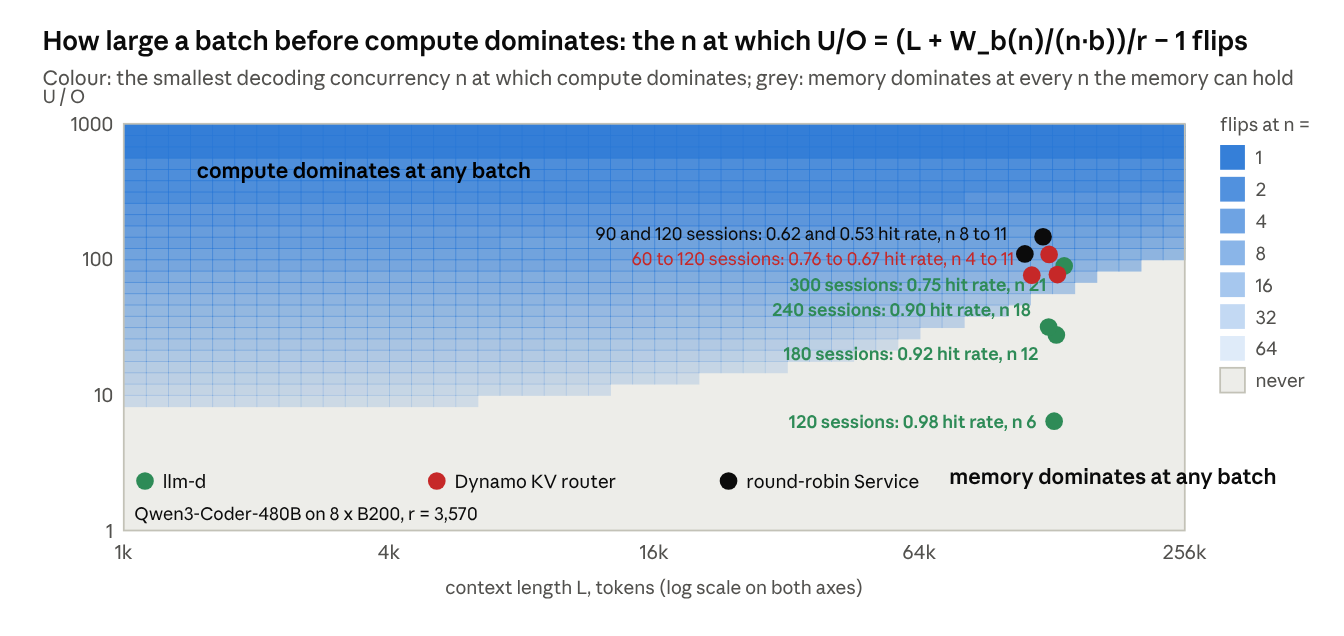
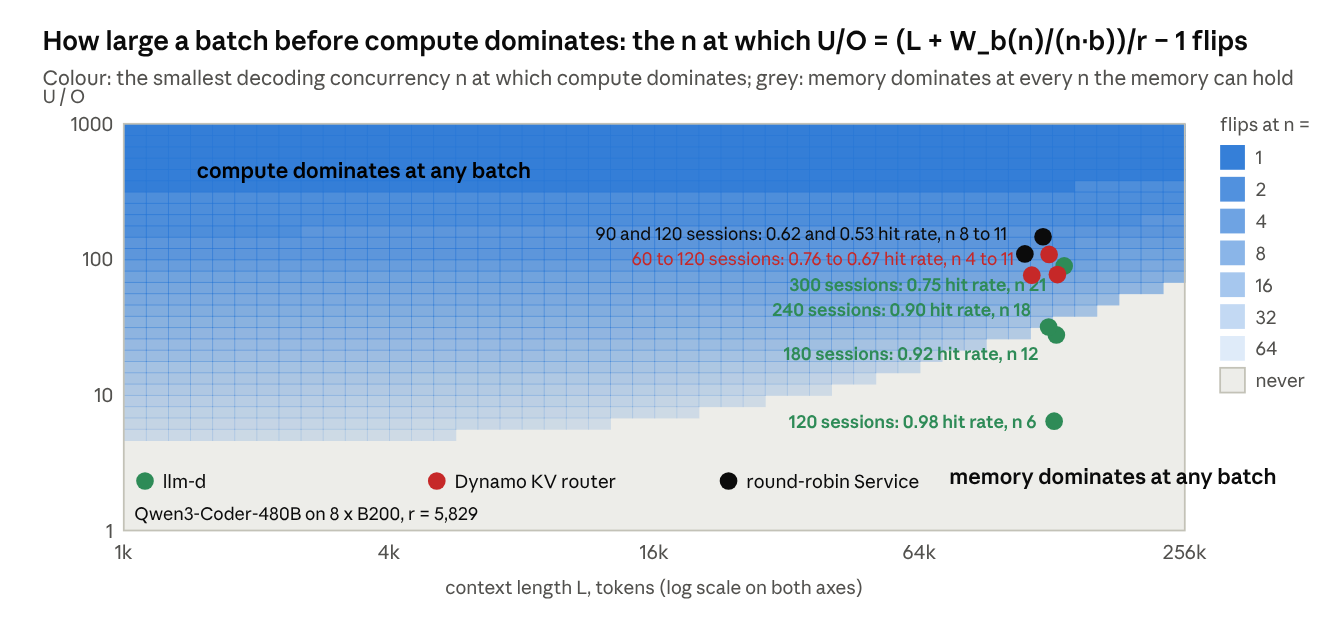
docs(blog): ridge at the workload's context (r 5,800, threshold 30); wall map redrawn; rule check 8 of 9

Changed region(s): [[0.0938, 0.239, 0.9062, 0.717], [0.0938, 0.3585, 0.2188, 0.3884]]

diff --git a/docs/blog/kv-cache-serving-efficiency/post.html b/docs/blog/kv-cache-serving-efficiency/post.html
@@ -24,11 +24,11 @@
 <h3 id="21-which-side-of-the-ridge-a-workload-falls-on">2.1 Which side of the ridge a workload falls on</h3>
 <p>Each output token costs the engine two things: one read of its whole context, L tokens of KV, and the compute for its share of the uncached prompt, U/O prefill tokens. The <strong>ridge</strong> r is the exchange rate between them, the number of KV tokens the device reads in the time it prefills one token, from the two calibrated rates:</p>
 <pre><code class="language-latex">r = \frac{\text{HBM bandwidth} / \text{KV bytes per token}}{\text{prefill tokens per second}}</code></pre>
-<p>r depends on the hardware and the model only; for Qwen3-Coder-480B on 8 × B200 it is about 3,600. Compute dominates a step when the compute per output token exceeds the memory read per output token, both counted in prefill-token time, with one correction: the weights a step streams count as extra context shared by the n sequences in it, W_b(n)/(n·b) tokens where b is the KV bytes per token. The rule is</p>
+<p>r depends on the hardware and the model only; for Qwen3-Coder-480B on 8 × B200, at this workload&#39;s 117k context, it is about 5,800. Compute dominates a step when the compute per output token exceeds the memory read per output token, both counted in prefill-token time, with one correction: the weights a step streams count as extra context shared by the n sequences in it, W_b(n)/(n·b) tokens where b is the KV bytes per token. The rule is</p>
 <pre><code class="language-latex">\underbrace{1 + \frac{U}{O}}_{\substack{\text{compute per output token:}\\ \text{the decode token plus its share of uncached prefill}}} \;&gt;\; \underbrace{\frac{L + W_b(n)/(n\,b)}{r}}_{\substack{\text{memory per output token:}\\ \text{context plus shared weights, in prefill-token time}}}</code></pre>
-<p>For the agentic workload (L = 117k, U = 7.5k, O = 386), U/O = 19 against a threshold of 50 at the ceiling&#39;s batch of 29, so the workload is memory-bound. A stack that lets the hit rate fall raises U/O past the threshold, and its steps are then dominated by recompute. Capacity is not in the rule; it caps n and enters the ceiling as a separate condition (Appendix B).</p>
-<p>The figure draws the rule for this deployment: for each context length and U/O, the smallest batch at which compute dominates, grey where memory dominates at every batch the HBM holds. llm-d&#39;s runs up to 240 sessions sit in the grey; Dynamo, round-robin and llm-d at 300 sessions sit in the n = 1 band, where recompute dominates at any batch.</p>
-<p style="text-align:center"><img src="figures/fig2-wall-map.png" width="620"></p><p style="text-align:center"><i>the smallest decoding concurrency n at which U/O &gt; (L + W_b(n)/(n·b))/r − 1 holds, for the B200 deployment of Appendix A (r = 3,600, W_b(n) from the expert-count formula of Appendix B, n capped by KV capacity and the engine&#39;s 64-sequence limit) · fleet runs from Section 6 placed by their measured hit rates (U = (1 − h)·I, h counting HBM and host-tier hits) · compute against bandwidth only; the capacity wall is a separate condition</i></p>
+<p>For the agentic workload (L = 117k, U = 7.5k, O = 386), U/O = 19 against a threshold of 30 at the ceiling&#39;s batch of 29, so the workload is memory-bound. A stack that lets the hit rate fall raises U/O past the threshold, and its steps are then dominated by recompute. Capacity is not in the rule; it caps n and enters the ceiling as a separate condition (Appendix B).</p>
+<p>The figure draws the rule for this deployment: for each context length and U/O, the smallest batch at which compute dominates, grey where memory dominates at every batch the HBM holds. llm-d&#39;s runs up to 240 sessions sit in the grey; Dynamo, round-robin and llm-d at 300 sessions sit in the blue, where recompute dominates once three to eight requests share a step, fewer than those runs actually had decoding.</p>
+<p style="text-align:center"><img src="figures/fig2-wall-map.png" width="620"></p><p style="text-align:center"><i>the smallest decoding concurrency n at which U/O &gt; (L + W_b(n)/(n·b))/r − 1 holds, for the B200 deployment of Appendix A (r = 5,800, the ridge at this workload&#39;s context; W_b(n) from the expert-count formula of Appendix B, n capped by KV capacity and the engine&#39;s 64-sequence limit) · fleet runs from Section 6 placed by their measured hit rates (U = (1 − h)·I, h counting HBM and host-tier hits) · compute against bandwidth only; the capacity wall is a separate condition</i></p>
 <h2 id="3-the-ceiling-and-η">3. The ceiling and η</h2>
 <p>An inference engine serves requests in steps. One step is one forward pass over everything scheduled in it: a chunk of prefill tokens from prompts still being processed, plus one new token for every request that is decoding. Each step incurs three hardware costs:</p>
 <ol><li><p><strong>Compute.</strong> Every token costs the model&#39;s active FLOPs plus attention over its request&#39;s context; a prefill chunk is almost all of it.</p></li><li><p><strong>Bandwidth.</strong> Every step streams the weights it touches and reads the KV of every decoding request, so its memory time grows with the number and length of resident contexts.</p></li><li><p><strong>Capacity.</strong> Every request whose KV is held, decoding or waiting for its next turn, occupies HBM; when HBM is full something is evicted and, unless a lower tier still holds it, must be recomputed when it returns.</p></li></ol>
@@ -70,7 +70,7 @@
 <h3 id="where-the-loss-is">Where the loss is</h3>
 <p>Three factors per run, as defined in Section 4. Z is the time from a turn&#39;s last token to the session&#39;s next request, and T the time from a request&#39;s start to its last token, both from the per-request records. Each run is scored against the ceiling at its own mean prompt length, so η here differs slightly from the headline table. T_ideal is taken at the oracle&#39;s hit rate over the steady window, 0.98, since h is measured over that window.</p>
 <table><thead><tr><th>Stack</th><th>Sessions</th><th>Hit rate</th><th>Z, idle per turn</th><th>T, service per turn</th><th>Client</th><th>Reuse</th><th>Engine</th><th>η</th></tr></thead><tbody><tr><td>llm-d</td><td>120</td><td>0.98</td><td>17.5 s</td><td>8.9 s</td><td>0.52</td><td>1.00</td><td>0.96</td><td>0.50</td></tr><tr><td>llm-d</td><td>180</td><td>0.92</td><td>16.4 s</td><td>22.4 s</td><td>0.69</td><td>1.00</td><td>0.68</td><td>0.47</td></tr><tr><td>llm-d</td><td>240</td><td>0.90</td><td>20.0 s</td><td>34.3 s</td><td>0.75</td><td>1.00</td><td>0.61</td><td>0.45</td></tr><tr><td>llm-d</td><td>300</td><td>0.75</td><td>26.8 s</td><td>95.0 s</td><td>0.79</td><td>0.69</td><td>0.49</td><td>0.26</td></tr><tr><td>Dynamo KV router</td><td>60</td><td>0.76</td><td>16.8 s</td><td>15.2 s</td><td>0.29</td><td>0.95</td><td>0.77</td><td>0.21</td></tr><tr><td>Dynamo KV router</td><td>90</td><td>0.74</td><td>16.0 s</td><td>21.1 s</td><td>0.35</td><td>0.92</td><td>0.70</td><td>0.23</td></tr><tr><td>Dynamo KV router</td><td>120</td><td>0.67</td><td>21.0 s</td><td>36.2 s</td><td>0.39</td><td>0.73</td><td>0.74</td><td>0.21</td></tr><tr><td>round-robin Service</td><td>90</td><td>0.62</td><td>19.8 s</td><td>34.0 s</td><td>0.29</td><td>0.81</td><td>0.64</td><td>0.15</td></tr><tr><td>round-robin Service</td><td>120</td><td>0.53</td><td>27.6 s</td><td>55.9 s</td><td>0.32</td><td>0.67</td><td>0.66</td><td>0.14</td></tr></tbody></table>
-<p>The split reads this way. The client factor is the load&#39;s own: at llm-d&#39;s peak the sessions and their idle time asked for 0.69 of the ceiling. Within that, llm-d lost nothing to reuse up to 240 sessions and 32 to 39% to the engine, the time requests spend waiting to be scheduled and, past 240, preempted; at 300 it also lost 31% to reuse. Dynamo and round-robin peak at lower loads, so their client factor is 0.29 to 0.39; past their peaks, added sessions turn into recompute (reuse 0.92 to 0.67) while the engine factor stays at 0.64 to 0.77. One idealisation of Section 3 shows in the table: the step-time law spreads prefill evenly across decode steps, so at a small batch recompute hides under the memory time and the reuse factor understates it, as for Dynamo at 60 sessions (hit rate 0.76, reuse 0.95); the engine factor carries it instead. At 120 sessions llm-d&#39;s 0.98 is the oracle&#39;s own hit rate over the window, so its reuse is 1.00. The rule of Section 2.1, applied to each run&#39;s measured hit rate, context and batch size, puts all nine runs on the same side of the measured ridge (about 290 FLOP/B, where the solid roofs of the Section 2 figure meet) as their arithmetic intensity. Both use the same per-token costs, so this shows the two are consistent; it is not an independent measurement.</p>
+<p>The split reads this way. The client factor is the load&#39;s own: at llm-d&#39;s peak the sessions and their idle time asked for 0.69 of the ceiling. Within that, llm-d lost nothing to reuse up to 240 sessions and 32 to 39% to the engine, the time requests spend waiting to be scheduled and, past 240, preempted; at 300 it also lost 31% to reuse. Dynamo and round-robin peak at lower loads, so their client factor is 0.29 to 0.39; past their peaks, added sessions turn into recompute (reuse 0.92 to 0.67) while the engine factor stays at 0.64 to 0.77. One idealisation of Section 3 shows in the table: the step-time law spreads prefill evenly across decode steps, so at a small batch recompute hides under the memory time and the reuse factor understates it, as for Dynamo at 60 sessions (hit rate 0.76, reuse 0.95); the engine factor carries it instead. At 120 sessions llm-d&#39;s 0.98 is the oracle&#39;s own hit rate over the window, so its reuse is 1.00. The rule of Section 2.1, applied to each run&#39;s measured hit rate, context and batch size, puts eight of the nine runs on the same side of the measured ridge (about 290 FLOP/B, where the solid roofs of the Section 2 figure meet) as their arithmetic intensity; the ninth, Dynamo at 90 sessions, sits at 283 FLOP/B, within 3% of the ridge. Both use the same per-token costs, so this shows the two are consistent; it is not an independent measurement.</p>
 <h3 id="run-notes">Run notes</h3>
 <p>Per-replica throughput stayed within about 10% of each level&#39;s mean, except round-robin at 120 sessions, where two replicas held 17 running requests each against 6 to 10 on the others, and 0 to 6 requests per level were lost to disconnects. Output lengths come from each request&#39;s max_tokens, because the harness&#39;s own output count is wrong on about one turn in 200.</p>
 <h2 id="7-doing-this-for-your-own-workload">7. Doing this for your own workload</h2>
@@ -103,7 +103,7 @@
 <h3 id="b2-the-ridge">B.2 The ridge</h3>
 <p>Per active request, with U uncached prompt tokens, resident context L and output O (Section 3), each iteration costs compute for its amortised uncached prefill and its decode token, and a read of its resident context:</p>
 <pre><code class="language-latex">c = \frac{1 + U/O}{R_{pf}}, \qquad m = \frac{L}{BW}, \qquad R_{pf} = \frac{F}{2N}, \quad BW = \frac{W}{b}</code></pre>
-<p>These are the terms that grow with load. The weight stream W_b/W is paid once per iteration whatever the load, so at low load every decode step is dominated by it and per-token cost looks memory-bound, the familiar small-batch result. Compute-bound and memory-bound are used here for the ceiling, where the per-sequence terms have grown to their limit, and that classification does not depend on load. Compute binds there when c exceeds m: when the KV tokens scanned per processed token, L/(1 + U/O), is below the hardware&#39;s ridge r = BW/R_pf. The weight stream is kept by charging it per sequence: a step shared by n sequences reads W_b(n) once, which is W_b/(n·b) tokens of KV each, so the comparison is made with L_eff = L + W_b(n)/(n·b) in place of L, and Section 2.1 draws it for several n. For a mixture of experts, W_b(n) counts the experts touched by every token in the step, prefill tokens included, so it is evaluated at n(1 + U/O) tokens. The prefill rate falls with context, so r grows with L: at a 128k context the B200 ridge is about 5,800 rather than 3,600, which lowers the agentic threshold of Section 2.1 from 50 to about 30 and changes no conclusion. The hit rate appears nowhere but inside U. Solving the equality for O gives the boundary output length as a function of context and uncached prefill,</p>
+<p>These are the terms that grow with load. The weight stream W_b/W is paid once per iteration whatever the load, so at low load every decode step is dominated by it and per-token cost looks memory-bound, the familiar small-batch result. Compute-bound and memory-bound are used here for the ceiling, where the per-sequence terms have grown to their limit, and that classification does not depend on load. Compute binds there when c exceeds m: when the KV tokens scanned per processed token, L/(1 + U/O), is below the hardware&#39;s ridge r = BW/R_pf. The weight stream is kept by charging it per sequence: a step shared by n sequences reads W_b(n) once, which is W_b/(n·b) tokens of KV each, so the comparison is made with L_eff = L + W_b(n)/(n·b) in place of L, and Section 2.1 draws it for several n. For a mixture of experts, W_b(n) counts the experts touched by every token in the step, prefill tokens included, so it is evaluated at n(1 + U/O) tokens. The prefill rate falls with context, so r grows with L. The 5,800 used in Section 2.1 is the ridge at this workload&#39;s 117k context; at the 8k calibration context, where the prefill rate is 37,217 tokens per second, it would be about 3,600, which raises the agentic threshold from 30 to about 50 and changes no conclusion. The hit rate appears nowhere but inside U. Solving the equality for O gives the boundary output length as a function of context and uncached prefill,</p>
 <pre><code class="language-latex">O^{*}(L, U) = \frac{r\, U}{L - r} \quad (L &gt; r), \qquad r = \frac{BW}{R_{pf}}</code></pre>
-<p>Contexts shorter than the ridge r are compute-bound at any output length. Longer than r, memory binds once the output exceeds rU/(L − r). Rearranged, compute binds when U/O &gt; L/r − 1: the uncached input per output token must exceed the context in ridges, less one. With nothing cached (U = L = I) this is 1/I + 1/O &gt; 1/r, which for a long input reduces to O &lt; r: on the B200 deployment memory binds above about 3,600 output tokens. With everything cached (U = 0) the boundary is zero: a reused context longer than r is memory-bound whatever its output length, which is where the agentic workload of Section 6 sits. The ridge is the hardware&#39;s bytes per FLOP times the model&#39;s FLOPs per token over its KV bytes per token, so latent-attention models, with fewer KV bytes per token, land higher.</p>
+<p>Contexts shorter than the ridge r are compute-bound at any output length. Longer than r, memory binds once the output exceeds rU/(L − r). Rearranged, compute binds when U/O &gt; L/r − 1: the uncached input per output token must exceed the context in ridges, less one. With nothing cached (U = L = I) this is 1/I + 1/O &gt; 1/r, which for a long input reduces to O &lt; r: on the B200 deployment, for a prompt around 117k tokens, memory binds above about 5,800 output tokens. With everything cached (U = 0) the boundary is zero: a reused context longer than r is memory-bound whatever its output length, which is where the agentic workload of Section 6 sits. The ridge is the hardware&#39;s bytes per FLOP times the model&#39;s FLOPs per token over its KV bytes per token, so latent-attention models, with fewer KV bytes per token, land higher.</p>
 </body></html>

diff --git a/docs/blog/kv-cache-serving-efficiency/reproduce/analysis/ceiling_v2.py b/docs/blog/kv-cache-serving-efficiency/reproduce/analysis/ceiling_v2.py
@@ -1,10 +1,10 @@
 #!/usr/bin/env python3
 """Ceiling with the all-tokens expert convention: W_b evaluated at the tokens in a step, n decode + n*U/O prefill (prefill spread evenly).
 Outputs R, per-run own-I ceilings, the split table, the ideal throughput-vs-n curve, the two capacity walls, the 2.1 thresholds and the rule check."""
-import sys,io,contextlib,json; sys.argv=[sys.argv[0]]; sys.path.insert(0, os.path.dirname(os.path.abspath(__file__)))
+import sys,io,contextlib,json; sys.argv=[sys.argv[0]]; sys.path.insert(0,'/usr/local/google/home/kaushikmitra/kv-whitepaper')
 with contextlib.redirect_stdout(io.StringIO()):
     import ceilings as c, retention as rt
-b=253952; W=0.527*8*8.0e12; Ctok=3403712; TB=8192; FLOOR=0.0058; R8k=37217; p=-0.177; r_ridge=3570
+b=253952; W=0.527*8*8.0e12; Ctok=3403712; TB=8192; FLOOR=0.0058; R8k=37217; p=-0.177; r_ridge=5829
 rt.b=b; rt.P['b']=b; rt.P['W']=W; rt.W=W
 def step(I,O,h,n):
     U=(1-h)*I; L=I+O/2; Ftok=R8k*(I/8192)**p; pre=n*U/O
@@ -23,7 +23,7 @@ H={'llm-d 120':(604,.98),'llm-d 180':(622,.92),'llm-d 240':(570,.90),'llm-d 300'
 print('eta (fleet ceiling):',{k:round(v[0]*1e3/F,2) for k,v in H.items()})
 print('--- split (T_ideal at 0.98, own-I ceilings):')
 pts=[]
-for r in json.load(open(RESULTS+'/round2_inputs.json')):
+for r in json.load(open('retention/round2_inputs.json')):
     nm=r['name']; I_,O_,hh,nr,S=r['I'],r['O'],H[nm][1],r['n_run'],r['conc']; rho_=1-(I_+19*1500)/(20*I_)
     Z=r['Tp']+r['gap']; T=r['T_engine']; Tid=O_*step(I_,O_,0.98,nr); Th=O_*step(I_,O_,hh,nr)
     nn,tp,tt=ceiling(I_,O_,rho_); Rr=tp*6
@@ -44,7 +44,7 @@ def thr(nn,y):  # implicit in y; iterate
 print('  at n=29:',round(thr(29,19),1),' at n=12:',round(thr(12,19),1),' at n=5:',round(thr(5,19),1))
 AI={'llm-d 120':36,'llm-d 180':172,'llm-d 240':239,'llm-d 300':737,'Dynamo 60':200,'Dynamo 90':283,'Dynamo 120':600,'rr 90':303,'rr 120':549}
 agree=0
-for r in json.load(open(RESULTS+'/round2_inputs.json')):
+for r in json.load(open('retention/round2_inputs.json')):
     nm=r['name']; y=(1-H[nm][1])*r['I']/r['O']; nr=r['n_run']; th=(r['I']+c.wread(nr*(1+y))/(nr*b))/r_ridge-1
     a=(y>th)==(AI[nm]>290); agree+=a; print(f"  {nm:11s} U/O {y:6.1f} thr {th:5.1f} rule {'compute' if y>th else 'memory':7s} AI {AI[nm]} {'agree' if a else 'DISAGREE'}")
 print('agree',agree,'of 9')

diff --git a/docs/blog/kv-cache-serving-efficiency/README.md b/docs/blog/kv-cache-serving-efficiency/README.md
@@ -60,19 +60,19 @@ $$
 r = \frac{\text{HBM bandwidth} / \text{KV bytes per token}}{\text{prefill tokens per second}}
 $$
 
-r depends on the hardware and the model only; for Qwen3-Coder-480B on 8 × B200 it is about 3,600. Compute dominates a step when the compute per output token exceeds the memory read per output token, both counted in prefill-token time, with one correction: the weights a step streams count as extra context shared by the n sequences in it, W\_b(n)/(n·b) tokens where b is the KV bytes per token. The rule is
+r depends on the hardware and the model only; for Qwen3-Coder-480B on 8 × B200, at this workload's 117k context, it is about 5,800. Compute dominates a step when the compute per output token exceeds the memory read per output token, both counted in prefill-token time, with one correction: the weights a step streams count as extra context shared by the n sequences in it, W\_b(n)/(n·b) tokens where b is the KV bytes per token. The rule is
 
 $$
 \underbrace{1 + \frac{U}{O}}_{\substack{\text{compute per output token:}\\ \text{the decode token plus its share of uncached prefill}}} \;>\; \underbrace{\frac{L + W_b(n)/(n\,b)}{r}}_{\substack{\text{memory per output token:}\\ \text{context plus shared weights, in prefill-token time}}}
 $$
 
-For the agentic workload (L = 117k, U = 7.5k, O = 386), U/O = 19 against a threshold of 50 at the ceiling's batch of 29, so the workload is memory-bound. A stack that lets the hit rate fall raises U/O past the threshold, and its steps are then dominated by recompute. Capacity is not in the rule; it caps n and enters the ceiling as a separate condition (Appendix B).
+For the agentic workload (L = 117k, U = 7.5k, O = 386), U/O = 19 against a threshold of 30 at the ceiling's batch of 29, so the workload is memory-bound. A stack that lets the hit rate fall raises U/O past the threshold, and its steps are then dominated by recompute. Capacity is not in the rule; it caps n and enters the ceiling as a separate condition (Appendix B).
 
-The figure draws the rule for this deployment: for each context length and U/O, the smallest batch at which compute dominates, grey where memory dominates at every batch the HBM holds. llm-d's runs up to 240 sessions sit in the grey; Dynamo, round-robin and llm-d at 300 sessions sit in the n = 1 band, where recompute dominates at any batch.
+The figure draws the rule for this deployment: for each context length and U/O, the smallest batch at which compute dominates, grey where memory dominates at every batch the HBM holds. llm-d's runs up to 240 sessions sit in the grey; Dynamo, round-robin and llm-d at 300 sessions sit in the blue, where recompute dominates once three to eight requests share a step, fewer than those runs actually had decoding.
 
-![the smallest decoding concurrency n at which U/O > (L + W_b(n)/(n·b))/r − 1 holds, for the B200 deployment of Appendix A (r = 3,600, W_b(n) from the expert-count formula of Appendix B, n capped by KV capacity and the engine's 64-sequence limit) · fleet runs from Section 6 placed by their measured hit rates (U = (1 − h)·I, h counting HBM and host-tier hits) · compute against bandwidth only; the capacity wall is a separate condition](figures/fig2-wall-map.png)
+![the smallest decoding concurrency n at which U/O > (L + W_b(n)/(n·b))/r − 1 holds, for the B200 deployment of Appendix A (r = 5,800, the ridge at this workload's context; W_b(n) from the expert-count formula of Appendix B, n capped by KV capacity and the engine's 64-sequence limit) · fleet runs from Section 6 placed by their measured hit rates (U = (1 − h)·I, h counting HBM and host-tier hits) · compute against bandwidth only; the capacity wall is a separate condition](figures/fig2-wall-map.png)
 
-*the smallest decoding concurrency n at which U/O > (L + W_b(n)/(n·b))/r − 1 holds, for the B200 deployment of Appendix A (r = 3,600, W_b(n) from the expert-count formula of Appendix B, n capped by KV capacity and the engine's 64-sequence limit) · fleet runs from Section 6 placed by their measured hit rates (U = (1 − h)·I, h counting HBM and host-tier hits) · compute against bandwidth only; the capacity wall is a separate condition*
+*the smallest decoding concurrency n at which U/O > (L + W_b(n)/(n·b))/r − 1 holds, for the B200 deployment of Appendix A (r = 5,800, the ridge at this workload's context; W_b(n) from the expert-count formula of Appendix B, n capped by KV capacity and the engine's 64-sequence limit) · fleet runs from Section 6 placed by their measured hit rates (U = (1 − h)·I, h counting HBM and host-tier hits) · compute against bandwidth only; the capacity wall is a separate condition*
 
 ## 3. The ceiling and η
 
@@ -206,7 +206,7 @@ Three factors per run, as defined in Section 4. Z is the time from a turn's last
 | round-robin Service | 90 | 0.62 | 19.8 s | 34.0 s | 0.29 | 0.81 | 0.64 | 0.15 |
 | round-robin Service | 120 | 0.53 | 27.6 s | 55.9 s | 0.32 | 0.67 | 0.66 | 0.14 |
 
-The split reads this way. The client factor is the load's own: at llm-d's peak the sessions and their idle time asked for 0.69 of the ceiling. Within that, llm-d lost nothing to reuse up to 240 sessions and 32 to 39% to the engine, the time requests spend waiting to be scheduled and, past 240, preempted; at 300 it also lost 31% to reuse. Dynamo and round-robin peak at lower loads, so their client factor is 0.29 to 0.39; past their peaks, added sessions turn into recompute (reuse 0.92 to 0.67) while the engine factor stays at 0.64 to 0.77. One idealisation of Section 3 shows in the table: the step-time law spreads prefill evenly across decode steps, so at a small batch recompute hides under the memory time and the reuse factor understates it, as for Dynamo at 60 sessions (hit rate 0.76, reuse 0.95); the engine factor carries it instead. At 120 sessions llm-d's 0.98 is the oracle's own hit rate over the window, so its reuse is 1.00. The rule of Section 2.1, applied to each run's measured hit rate, context and batch size, puts all nine runs on the same side of the measured ridge (about 290 FLOP/B, where the solid roofs of the Section 2 figure meet) as their arithmetic intensity. Both use the same per-token costs, so this shows the two are consistent; it is not an independent measurement.
+The split reads this way. The client factor is the load's own: at llm-d's peak the sessions and their idle time asked for 0.69 of the ceiling. Within that, llm-d lost nothing to reuse up to 240 sessions and 32 to 39% to the engine, the time requests spend waiting to be scheduled and, past 240, preempted; at 300 it also lost 31% to reuse. Dynamo and round-robin peak at lower loads, so their client factor is 0.29 to 0.39; past their peaks, added sessions turn into recompute (reuse 0.92 to 0.67) while the engine factor stays at 0.64 to 0.77. One idealisation of Section 3 shows in the table: the step-time law spreads prefill evenly across decode steps, so at a small batch recompute hides under the memory time and the reuse factor understates it, as for Dynamo at 60 sessions (hit rate 0.76, reuse 0.95); the engine factor carries it instead. At 120 sessions llm-d's 0.98 is the oracle's own hit rate over the window, so its reuse is 1.00. The rule of Section 2.1, applied to each run's measured hit rate, context and batch size, puts eight of the nine runs on the same side of the measured ridge (about 290 FLOP/B, where the solid roofs of the Section 2 figure meet) as their arithmetic intensity; the ninth, Dynamo at 90 sessions, sits at 283 FLOP/B, within 3% of the ridge. Both use the same per-token costs, so this shows the two are consistent; it is not an independent measurement.
 
 ### Run notes
 
@@ -318,10 +318,10 @@ $$
 c = \frac{1 + U/O}{R_{pf}}, \qquad m = \frac{L}{BW}, \qquad R_{pf} = \frac{F}{2N}, \quad BW = \frac{W}{b}
 $$
 
-These are the terms that grow with load. The weight stream W\_b/W is paid once per iteration whatever the load, so at low load every decode step is dominated by it and per-token cost looks memory-bound, the familiar small-batch result. Compute-bound and memory-bound are used here for the ceiling, where the per-sequence terms have grown to their limit, and that classification does not depend on load. Compute binds there when c exceeds m: when the KV tokens scanned per processed token, L/(1 + U/O), is below the hardware's ridge r = BW/R\_pf. The weight stream is kept by charging it per sequence: a step shared by n sequences reads W\_b(n) once, which is W\_b/(n·b) tokens of KV each, so the comparison is made with L\_eff = L + W\_b(n)/(n·b) in place of L, and Section 2.1 draws it for several n. For a mixture of experts, W\_b(n) counts the experts touched by every token in the step, prefill tokens included, so it is evaluated at n(1 + U/O) tokens. The prefill rate falls with context, so r grows with L: at a 128k context the B200 ridge is about 5,800 rather than 3,600, which lowers the agentic threshold of Section 2.1 from 50 to about 30 and changes no conclusion. The hit rate appears nowhere but inside U. Solving the equality for O gives the boundary output length as a function of context and uncached prefill,
+These are the terms that grow with load. The weight stream W\_b/W is paid once per iteration whatever the load, so at low load every decode step is dominated by it and per-token cost looks memory-bound, the familiar small-batch result. Compute-bound and memory-bound are used here for the ceiling, where the per-sequence terms have grown to their limit, and that classification does not depend on load. Compute binds there when c exceeds m: when the KV tokens scanned per processed token, L/(1 + U/O), is below the hardware's ridge r = BW/R\_pf. The weight stream is kept by charging it per sequence: a step shared by n sequences reads W\_b(n) once, which is W\_b/(n·b) tokens of KV each, so the comparison is made with L\_eff = L + W\_b(n)/(n·b) in place of L, and Section 2.1 draws it for several n. For a mixture of experts, W\_b(n) counts the experts touched by every token in the step, prefill tokens included, so it is evaluated at n(1 + U/O) tokens. The prefill rate falls with context, so r grows with L. The 5,800 used in Section 2.1 is the ridge at this workload's 117k context; at the 8k calibration context, where the prefill rate is 37,217 tokens per second, it would be about 3,600, which raises the agentic threshold from 30 to about 50 and changes no conclusion. The hit rate appears nowhere but inside U. Solving the equality for O gives the boundary output length as a function of context and uncached prefill,
 
 $$
 O^{*}(L, U) = \frac{r\, U}{L - r} \quad (L > r), \qquad r = \frac{BW}{R_{pf}}
 $$
 
-Contexts shorter than the ridge r are compute-bound at any output length. Longer than r, memory binds once the output exceeds rU/(L − r). Rearranged, compute binds when U/O > L/r − 1: the uncached input per output token must exceed the context in ridges, less one. With nothing cached (U = L = I) this is 1/I + 1/O > 1/r, which for a long input reduces to O < r: on the B200 deployment memory binds above about 3,600 output tokens. With everything cached (U = 0) the boundary is zero: a reused context longer than r is memory-bound whatever its output length, which is where the agentic workload of Section 6 sits. The ridge is the hardware's bytes per FLOP times the model's FLOPs per token over its KV bytes per token, so latent-attention models, with fewer KV bytes per token, land higher.
+Contexts shorter than the ridge r are compute-bound at any output length. Longer than r, memory binds once the output exceeds rU/(L − r). Rearranged, compute binds when U/O > L/r − 1: the uncached input per output token must exceed the context in ridges, less one. With nothing cached (U = L = I) this is 1/I + 1/O > 1/r, which for a long input reduces to O < r: on the B200 deployment, for a prompt around 117k tokens, memory binds above about 5,800 output tokens. With everything cached (U = 0) the boundary is zero: a reused context longer than r is memory-bound whatever its output length, which is where the agentic workload of Section 6 sits. The ridge is the hardware's bytes per FLOP times the model's FLOPs per token over its KV bytes per token, so latent-attention models, with fewer KV bytes per token, land higher.
